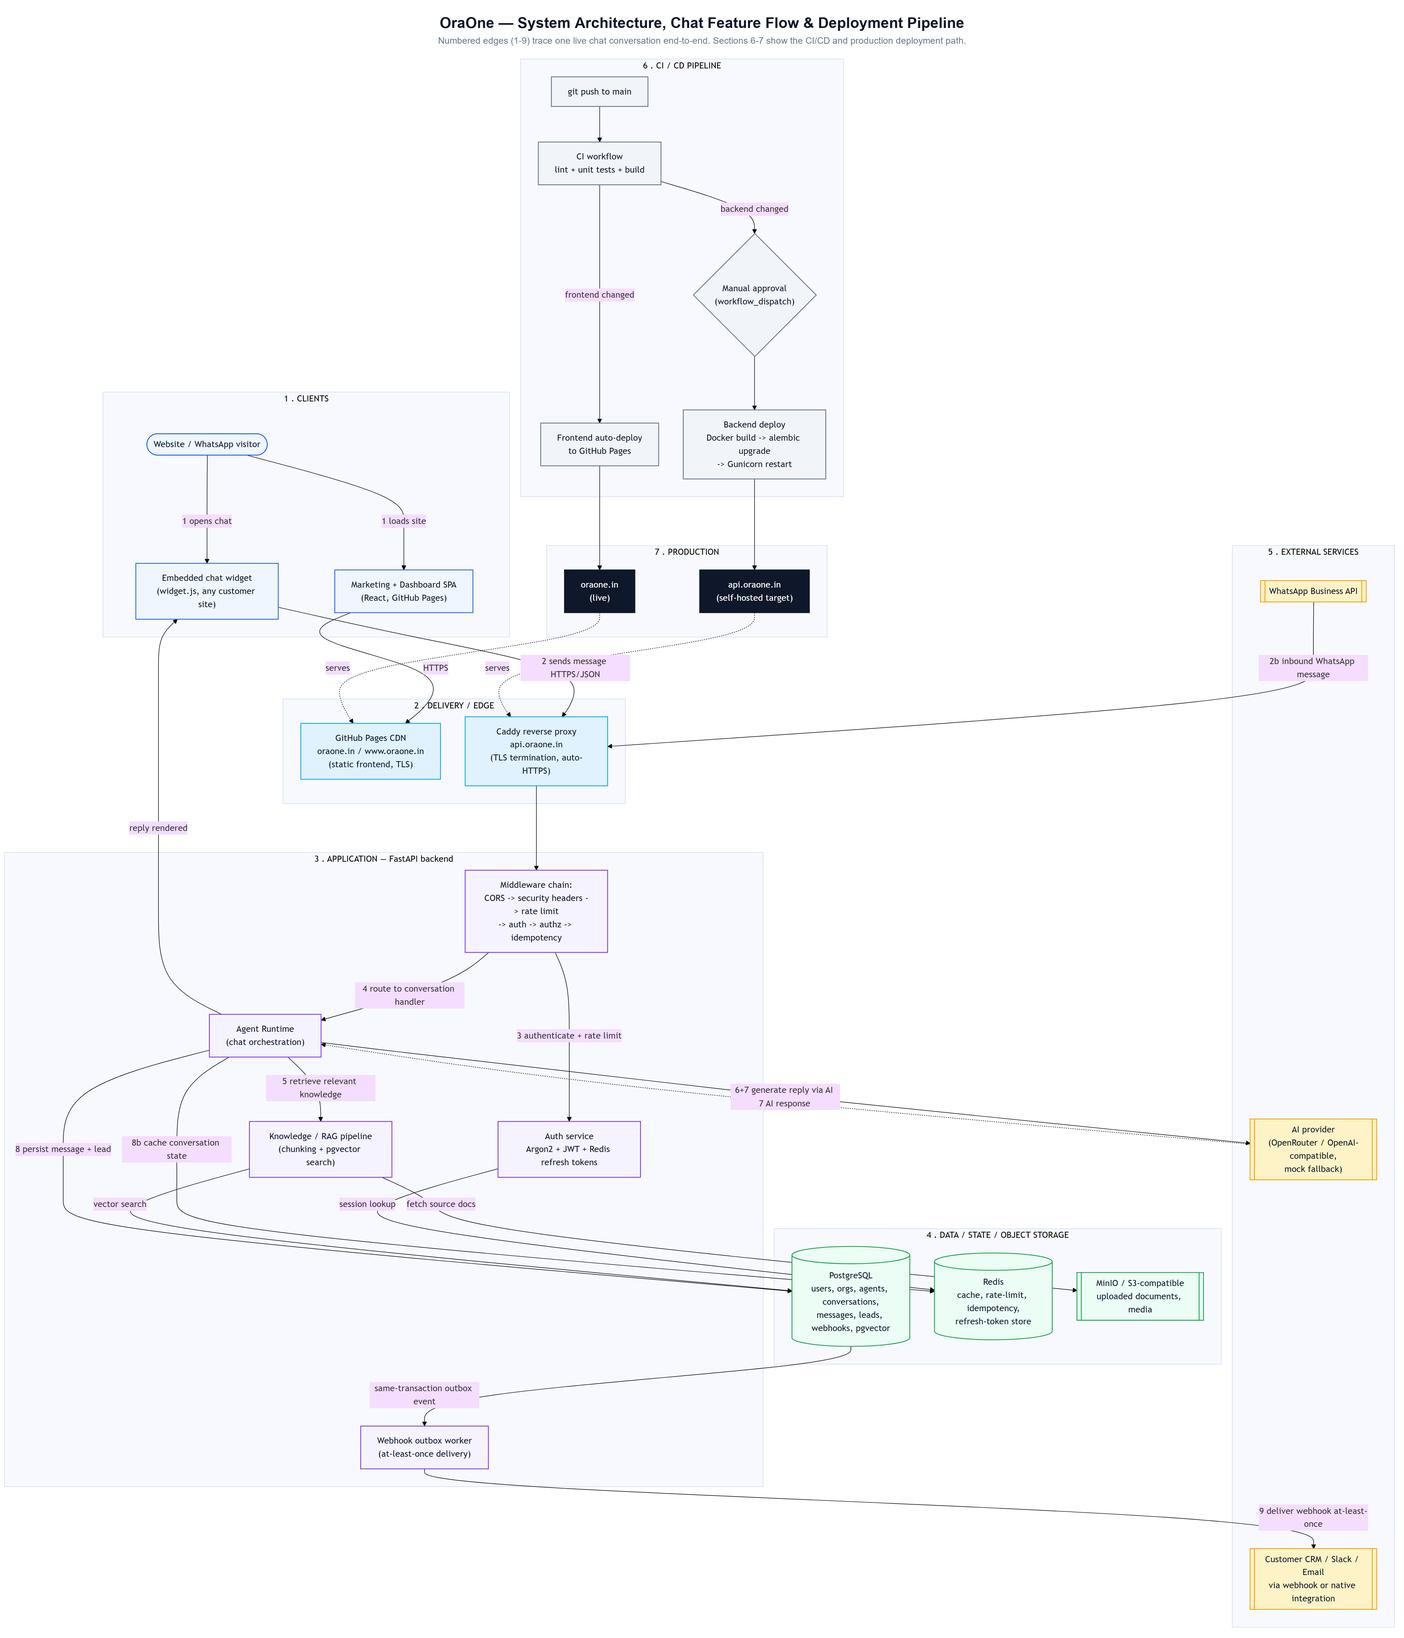
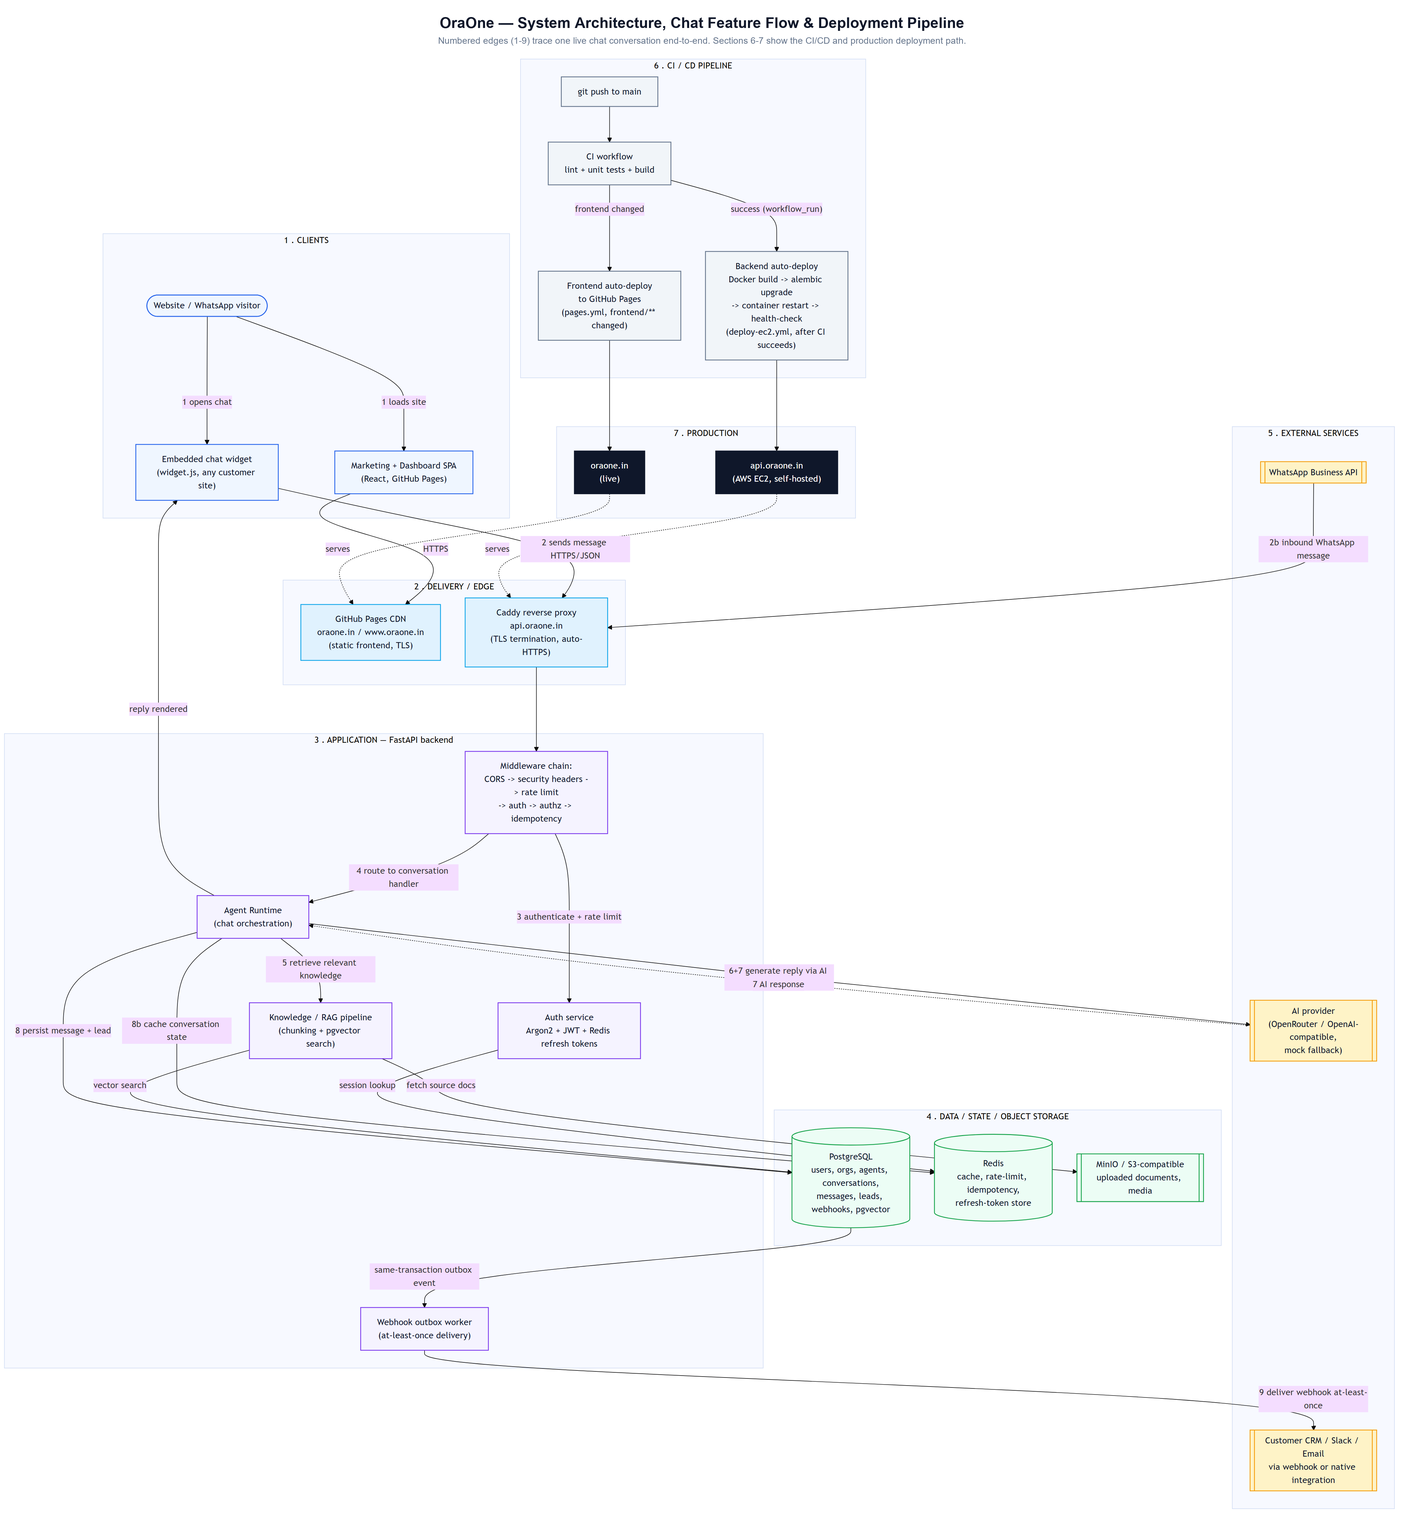
chore: durable infra + docs sync (Elastic IP, SES-ready CFN, widget API base, CI/CD docs)
Infrastructure durability:
- Allocated + associated an AWS Elastic IP for oraone-prod so the public
  IP survives a stop/start (previously a plain auto-assigned address that
  would silently break DNS/SSH/the deploy pipeline on any stop/start).
  Updated the api.oraone.in DNS record and the EC2_HOST deploy secret.
- CloudFormation template (oraone-ec2-stack.yaml): added an EmailFromAddress
  parameter, an EC2 instance role/profile scoped to ses:SendEmail/
  ses:SendRawEmail, and WIDGET_API_BASE/EMAIL_FROM/SES_REGION in the
  generated backend/.env, so future deployments via this template get
  working transactional email and a correct widget embed snippet without
  the manual dance this session needed. Re-validated with cfn-lint (clean).
- Set WIDGET_API_BASE on the live server — this is the actual root-cause
  fix for the widget-embed-404 bug (the client-side widget.js fallback
  added earlier remains as a defensive fallback, but the server already
  had a documented, unused mechanism for this exact cross-domain case).

Docs (were describing a topology/pipeline that no longer matches reality):
- DEPLOYMENT.md: rewritten to describe the actual live split (GitHub Pages
  frontend + self-hosted EC2 backend, not 'two alternative models'),
  correct the now-inaccurate 'deploy is manual-dispatch only' claim, and
  add concrete SES setup + Elastic IP guidance.
- ARCHITECTURE.md / README.md: removed the 'no AWS dependency at all'
[…]

diff --git a/backend/app/emails/templates/verify_email.html b/backend/app/emails/templates/verify_email.html
@@ -1,12 +1,52 @@
-<h1 style="margin:0 0 16px 0; font-size:24px; line-height:32px; font-weight:800; color:#0F172A;">Verify your email</h1>
-<p style="margin:0 0 24px 0; font-size:15px; line-height:24px; color:#334155;">
-  Thanks for signing up for OraOne. Confirm this is your email address to activate your account.
+<table role="presentation" cellpadding="0" cellspacing="0" style="margin:0 0 20px 0;">
+  <tr>
+    <td style="width:40px; height:40px; border-radius:10px; background-color:#EFF6FF; text-align:center; vertical-align:middle;" width="40" height="40">
+      <span style="font-size:18px; line-height:40px;">&#9993;</span>
+    </td>
+    <td style="padding-left:12px; vertical-align:middle;">
+      <span style="font-size:12px; font-weight:700; letter-spacing:0.08em; text-transform:uppercase; color:#2563EB;">Confirm your email</span>
+    </td>
+  </tr>
+</table>
+
+<h1 style="margin:0 0 12px 0; font-size:24px; line-height:32px; font-weight:800; color:#0F172A;">Verify your email address</h1>
+<p style="margin:0 0 28px 0; font-size:15px; line-height:24px; color:#334155;">
+  Thanks for signing up for OraOne. Confirm this is your email address to activate your account and start building your first AI agent.
 </p>
-<a href="{{ cta_url }}" style="display:inline-block; background:linear-gradient(135deg,#2563EB 0%,#4F46E5 100%); color:#FFFFFF; text-decoration:none; font-weight:600; font-size:15px; padding:12px 28px; border-radius:10px;">Verify email</a>
-<p style="margin:28px 0 8px 0; font-size:14px; line-height:22px; color:#64748B;">
-  Or use this code if prompted:
+
+<table role="presentation" cellpadding="0" cellspacing="0" style="margin:0 0 28px 0;">
+  <tr>
+    <td style="border-radius:10px; background:linear-gradient(135deg,#2563EB 0%,#4F46E5 100%);">
+      <a href="{{ cta_url }}" style="display:inline-block; color:#FFFFFF; text-decoration:none; font-weight:600; font-size:15px; padding:12px 28px;">Verify email address</a>
+    </td>
+  </tr>
+</table>
+
+<p style="margin:0 0 10px 0; font-size:13px; line-height:20px; color:#64748B;">
+  Or, if you were asked for a code instead, enter this:
 </p>
-<p style="margin:0 0 24px 0; font-size:28px; line-height:34px; font-weight:800; letter-spacing:0.2em; color:#2563EB;">{{ code }}</p>
-<p style="margin:0; font-size:13px; line-height:20px; color:#94A3B8;">
-  This link expires in {{ expires_in }}. If you didn't create an OraOne account, you can safely ignore this email.
-</p>
+<table role="presentation" width="100%" cellpadding="0" cellspacing="0" style="margin:0 0 16px 0;">
+  <tr>
+    <td align="center" style="background-color:#F8FAFC; border:1px solid #E2E8F0; border-radius:14px; padding:20px 16px;">
+      <span style="display:inline-block; font-family:'SFMono-Regular',Consolas,'Liberation Mono',Menlo,monospace; font-size:30px; line-height:38px; font-weight:800; letter-spacing:0.3em; color:#0F172A;">{{ code }}</span>
+    </td>
+  </tr>
+</table>
+
+<table role="presentation" cellpadding="0" cellspacing="0" style="margin:0 0 28px 0;">
+  <tr>
+    <td style="background-color:#EFF6FF; border-radius:999px; padding:6px 14px;">
+      <span style="font-size:12px; font-weight:600; color:#2563EB;">&#9201; Expires in {{ expires_in }}</span>
+    </td>
+  </tr>
+</table>
+
+<table role="presentation" width="100%" cellpadding="0" cellspacing="0" style="border-top:1px solid #F1F5F9;">
+  <tr>
+    <td style="padding-top:20px;">
+      <p style="margin:0; font-size:13px; line-height:20px; color:#94A3B8;">
+        <strong style="color:#64748B;">Didn't create this account?</strong> You can safely ignore this email — no account will be activated without confirming this address.
+      </p>
+    </td>
+  </tr>
+</table>

diff --git a/backend/app/emails/templates/login_otp.html b/backend/app/emails/templates/login_otp.html
@@ -1,8 +1,41 @@
-<h1 style="margin:0 0 16px 0; font-size:24px; line-height:32px; font-weight:800; color:#0F172A;">Your sign-in code</h1>
-<p style="margin:0 0 24px 0; font-size:15px; line-height:24px; color:#334155;">
-  Enter this code to finish signing in to OraOne.
+<table role="presentation" cellpadding="0" cellspacing="0" style="margin:0 0 20px 0;">
+  <tr>
+    <td style="width:40px; height:40px; border-radius:10px; background-color:#EFF6FF; text-align:center; vertical-align:middle;" width="40" height="40">
+      <span style="font-size:18px; line-height:40px;">&#128274;</span>
+    </td>
+    <td style="padding-left:12px; vertical-align:middle;">
+      <span style="font-size:12px; font-weight:700; letter-spacing:0.08em; text-transform:uppercase; color:#2563EB;">Sign-in verification</span>
+    </td>
+  </tr>
+</table>
+
+<h1 style="margin:0 0 12px 0; font-size:24px; line-height:32px; font-weight:800; color:#0F172A;">Enter this code to sign in</h1>
+<p style="margin:0 0 28px 0; font-size:15px; line-height:24px; color:#334155;">
+  We received a sign-in request for your OraOne account. Use the verification code below to finish signing in — don't share it with anyone.
 </p>
-<p style="margin:0 0 24px 0; font-size:32px; line-height:38px; font-weight:800; letter-spacing:0.25em; color:#2563EB;">{{ code }}</p>
-<p style="margin:0; font-size:13px; line-height:20px; color:#94A3B8;">
-  This code expires in {{ expires_in }}. If you didn't try to sign in, you can safely ignore this email — your password has not been compromised.
-</p>
+
+<table role="presentation" width="100%" cellpadding="0" cellspacing="0" style="margin:0 0 16px 0;">
+  <tr>
+    <td align="center" style="background-color:#F8FAFC; border:1px solid #E2E8F0; border-radius:14px; padding:24px 16px;">
+      <span style="display:inline-block; font-family:'SFMono-Regular',Consolas,'Liberation Mono',Menlo,monospace; font-size:36px; line-height:44px; font-weight:800; letter-spacing:0.35em; color:#0F172A;">{{ code }}</span>
+    </td>
+  </tr>
+</table>
+
+<table role="presentation" cellpadding="0" cellspacing="0" style="margin:0 0 28px 0;">
+  <tr>
+    <td style="background-color:#EFF6FF; border-radius:999px; padding:6px 14px;">
+      <span style="font-size:12px; font-weight:600; color:#2563EB;">&#9201; Expires in {{ expires_in }}</span>
+    </td>
+  </tr>
+</table>
+
+<table role="presentation" width="100%" cellpadding="0" cellspacing="0" style="border-top:1px solid #F1F5F9;">
+  <tr>
+    <td style="padding-top:20px;">
+      <p style="margin:0; font-size:13px; line-height:20px; color:#94A3B8;">
+        <strong style="color:#64748B;">Didn't try to sign in?</strong> Someone may have entered your email by mistake, or tried to access your account. Your account is still safe — no one can sign in without this code, and it expires automatically. If this keeps happening, reply to this email and we'll help you secure your account.
+      </p>
+    </td>
+  </tr>
+</table>

diff --git a/docs/DEPLOYMENT.md b/docs/DEPLOYMENT.md
@@ -1,51 +1,111 @@
 # OraOne — Deployment & Operations
 
-Two distinct topologies exist. A reader must be able to tell at a glance
-which one is actually serving production traffic today.
+Production today runs BOTH topologies at once, split by concern: the
+marketing/app frontend is a static bundle on GitHub Pages, while the API
+is the full `docker-compose.prod.yml` stack (Postgres/Redis/MinIO/backend/
+Caddy) self-hosted on a single AWS EC2 instance. This isn't "pick one" —
+it's the actual live split, and a reader must be able to tell at a glance
+what's serving what.
 
-## Current hosted model (production today)
+## Frontend — GitHub Pages
 
 ![Current hosted model — GitHub Pages for the frontend, Caddy + FastAPI for the API domain](assets/diagrams/deployment-hosted-model.png)
 
-- **Frontend**: `.github/workflows/pages.yml` builds the CRA app and
-  deploys to GitHub Pages on every push to `main` that touches
-  `frontend/**`.
-- **Backend**: `backend/Dockerfile` (multi-stage, non-root user) runs
-  `alembic upgrade head` then Gunicorn (`gunicorn.conf.py` — `2*cpu+1`
-  Uvicorn workers, capped at 8, periodic worker recycling).
+- `.github/workflows/pages.yml` builds the CRA app and deploys to GitHub
+  Pages on every push to `main` that touches `frontend/**`. Serves
+  `oraone.in`.
 
-## Self-hosted model (`docker-compose.prod.yml`, alternative)
+## Backend — self-hosted on AWS EC2 (`docker-compose.prod.yml`)
 
 ![Self-hosted model — Caddy routing to frontend and backend containers, backed by postgres, redis, and minio](assets/diagrams/deployment-self-hosted-model.png)
 
-Any container platform (Fly.io, Render, Railway, ECS/Cloud Run, a K8s
-cluster) or a single VPS/dedicated server with Docker works — push the
-images to a registry (or `docker compose -f docker-compose.prod.yml up -d
---build` directly on a VPS) with the env vars from
-`backend/.env.example` / `frontend/.env.example`. The backend needs a
-reachable Postgres (with `pgvector`) and, optionally, Redis; the frontend
-only needs `REACT_APP_API_URL` set at **build** time (static bundle, baked
-in, not read at runtime). Put nginx/Caddy/Traefik in front for TLS. See
-[Local Setup](../LOCAL_SETUP.md) for the bare-metal-without-Docker path.
+Serves `api.oraone.in`. `backend/Dockerfile` (multi-stage, non-root user)
+runs `alembic upgrade head` then Gunicorn (`gunicorn.conf.py` — `2*cpu+1`
+Uvicorn workers, capped at 8, periodic worker recycling). Caddy in front
+handles TLS (auto Let's Encrypt) and reverse-proxies `/api/*` to the
+backend container.
+
+**Portable to any AWS account/region**: [`scripts/aws/oraone-ec2-stack.yaml`](../scripts/aws/oraone-ec2-stack.yaml)
+is a self-contained CloudFormation template that recreates this exact
+stack (instance, security group, Elastic IP, SES IAM role, billing budget
+alert) from scratch — see its header comment for the `aws cloudformation
+create-stack` invocation and required manual follow-up (DNS, SES domain
+verification).
+
+**Elastic IP, not the ephemeral auto-assigned address**: the instance's
+public IP is an AWS Elastic IP (allocated once, associated to the
+instance) specifically so it survives a stop/start without breaking DNS,
+SSH muscle-memory, or the `EC2_HOST` deploy secret. A plain auto-assigned
+public IP is reassigned on every stop/start — never rely on one for
+anything DNS points at.
+
+This topology also works on any container platform (Fly.io, Render,
+Railway, ECS/Cloud Run, a K8s cluster) or a plain VPS with Docker — push
+the images to a registry (or `docker compose -f docker-compose.prod.yml up
+-d --build` directly) with the env vars from `backend/.env.example` /
+`frontend/.env.example`. The backend needs a reachable Postgres (with
+`pgvector`) and, optionally, Redis; the frontend only needs
+`REACT_APP_API_URL` set at **build** time (static bundle, baked in, not
+read at runtime). See [Local Setup](../LOCAL_SETUP.md) for the
+bare-metal-without-Docker path.
+
+Whenever the frontend and backend are on **different domains** (as in
+production — GitHub Pages vs. `api.oraone.in`), also set `WIDGET_API_BASE`
+(see [Environment](ENVIRONMENT.md#widget--public-urls)) so the embedded
+widget's generated `<script>` snippet points at the right API origin —
+otherwise it defaults to `FRONTEND_URL` and the widget silently 404s on
+its own config.
 
 In every case: set `ENVIRONMENT=production`, a real `CORS_ORIGINS` (never
 `*`), and a real `JWT_SECRET_KEY` (self-hosted auth is always active — no
 external identity provider to configure).
 
+## Transactional email (SES)
+
+OTP/verification/reset emails are **log-only** (never actually sent) until
+`EMAIL_FROM` is set to a verified SES sender — see
+[Environment → Transactional email](ENVIRONMENT.md). Setup is inherently
+semi-manual (AWS can't verify domain ownership without your DNS provider):
+
+1. **Verify the sending domain in SES** — Console > SES > Verified
+   identities > Create identity > Domain, then add the DKIM CNAME records
+   it gives you at your DNS provider. Verification typically completes in
+   minutes.
+2. **Grant the backend `ses:SendEmail`/`ses:SendRawEmail`** — an EC2
+   instance profile is the durable way to do this (no long-lived keys to
+   rotate); the CloudFormation template creates one automatically. For a
+   manually-launched instance: IAM > Roles > Create role (EC2 trust) with
+   an inline `ses:SendEmail`/`ses:SendRawEmail` policy, then EC2 > that
+   instance > Actions > Security > Modify IAM role — no reboot required.
+3. **Set `EMAIL_FROM=noreply@yourdomain`** (+ `SES_REGION` if it differs
+   from `AWS_REGION`) in `backend/.env` and restart the backend container.
+4. **Request SES production access** — new SES accounts start in the
+   sandbox (200 emails/day, delivers only to individually-verified
+   recipient addresses). Get set up > Request production access; AWS
+   support typically responds within 24h, sometimes asking for sending-volume
+   / bounce-handling details first.
+
 ## DNS / TLS chain
 
 ![DNS and TLS chain — apex and www records, GitHub-managed Let's Encrypt cert, enforced HTTPS redirect](assets/diagrams/deployment-dns-tls.png)
 
-## CI vs deploy — deliberately separate pipelines
+## CI vs deploy — decoupled, gated pipelines
 
-![CI and deploy are separate pipelines — CI runs lint/test/build with no deploy trigger; deploy only runs on manual dispatch by an authorized operator](assets/diagrams/deployment-ci-vs-deploy.png)
+![CI and deploy are separate pipelines — CI runs lint/test/build; on success it triggers the backend deploy workflow via workflow_run, with workflow_dispatch also available for an on-demand manual run](assets/diagrams/deployment-ci-vs-deploy.png)
 
-A compromised or malicious PR cannot automatically deploy to production —
-`.github/workflows/ci.yml` (lint/build/test) and the deploy workflow are
-fully decoupled; deploy only runs on manual dispatch by an authorized
-operator. Frontend only ever sees `REACT_APP_*` (public) variables; all
-secrets stay server-side in `backend/.env`, never bundled into the static
+`.github/workflows/ci.yml` (lint/build/test) and
+`.github/workflows/deploy-ec2.yml` (build images, roll out to the EC2
+instance over SSH, health-check) are separate workflow files, but they are
+chained, not disconnected: deploy only fires via `workflow_run` **after**
+CI reports `success` on `main` (a failed/cancelled CI run never triggers a
+deploy), plus `workflow_dispatch` for an on-demand manual run. A compromised
+or malicious PR still can't deploy anything — deploy only ever triggers
+from `main`, and only after CI has actually passed against that exact
+commit. Frontend only ever sees `REACT_APP_*` (public) variables; all
+secrets stay server-side in `backend/.env` / GitHub Actions secrets
+(`EC2_HOST`, `EC2_USER`, `EC2_SSH_KEY`), never bundled into the static
 frontend build or the backend image.
+
 
 ## Health checks & status
 
@@ -139,4 +199,12 @@ require `cd backend && python -m alembic upgrade head`. Bump
 - [ ] Terminate TLS at the proxy (Caddy does this automatically) and
       confirm `Strict-Transport-Security` is present on responses.
 - [ ] Configure `EMAIL_FROM` + a verified sender to enable transactional
-      email (OTP codes, verification, password reset).
+      email (OTP codes, verification, password reset) — see
+      [Transactional email (SES)](#transactional-email-ses) above.
+- [ ] Set `WIDGET_API_BASE` if the frontend and backend are on different
+      domains (see [Environment](ENVIRONMENT.md#widget--public-urls)).
+- [ ] If self-hosting on a single VM/instance, associate a static/reserved
+      IP (an AWS Elastic IP, or equivalent) rather than relying on the
+      platform's auto-assigned address — otherwise a stop/start silently
+      breaks DNS, SSH access, and any deploy pipeline pointed at the old IP.
+

diff --git a/README.md b/README.md
@@ -10,6 +10,7 @@ AI Chat & WhatsApp agents that answer, qualify, and convert customers 24/7 — e
 
 [![CI](https://github.com/OraOneHQ/oraone-web/actions/workflows/ci.yml/badge.svg?branch=main)](https://github.com/OraOneHQ/oraone-web/actions/workflows/ci.yml)
 [![Deploy Frontend](https://github.com/OraOneHQ/oraone-web/actions/workflows/pages.yml/badge.svg?branch=main)](https://github.com/OraOneHQ/oraone-web/actions/workflows/pages.yml)
+[![Deploy Backend](https://github.com/OraOneHQ/oraone-web/actions/workflows/deploy-ec2.yml/badge.svg?branch=main)](https://github.com/OraOneHQ/oraone-web/actions/workflows/deploy-ec2.yml)
 [![Live Site](https://img.shields.io/badge/live-oraone.in-2563EB)](https://oraone.in)
 [![License: Proprietary](https://img.shields.io/badge/license-proprietary-64748B)](#license)
 
@@ -72,8 +73,8 @@ deployment topologies, and more).
 | Object storage | S3-compatible (MinIO locally, AWS S3 or any S3-compatible provider in production) |
 | AI | Pluggable provider (OpenRouter / OpenAI-compatible), graceful mock fallback |
 | Auth | Argon2 + JWT + Redis-backed refresh-token rotation, email OTP 2FA |
-| Deployment | GitHub Pages (frontend, HTTPS enforced), Docker Compose + Caddy (backend, auto-HTTPS) |
-| CI/CD | GitHub Actions — lint/test/build gate, decoupled from manual-dispatch deploys |
+| Deployment | GitHub Pages (frontend, HTTPS enforced), self-hosted Docker Compose + Caddy on a single VM (backend, auto-HTTPS) |
+| CI/CD | GitHub Actions — `ci.yml` (lint/test/build) gates `pages.yml` (frontend → GitHub Pages) and `deploy-ec2.yml` (backend+frontend containers → the backend VM), both of which auto-run only after CI succeeds on `main` |
 
 ## Project structure
 
@@ -120,7 +121,11 @@ yarn start
 ```
 
 Open http://localhost:3000 and sign in with the seeded local admin account.
-No AWS account, Cognito, or MongoDB required — the whole stack is self-hosted.
+No Cognito or MongoDB required — auth is self-hosted (Argon2 + JWT against
+Postgres) and works on any host. The live deployment happens to run its
+backend on a single AWS EC2 instance (see [Deployment](docs/DEPLOYMENT.md)),
+but that's a hosting choice, not a requirement — any VPS/container platform
+with Docker works identically.
 
 **Full walkthrough (env vars, troubleshooting, production Docker images):**
 see [LOCAL_SETUP.md](LOCAL_SETUP.md).

diff --git a/docs/ARCHITECTURE.md b/docs/ARCHITECTURE.md
@@ -5,10 +5,14 @@ focused docs it links out to: [Features](FEATURES.md), [Frontend](FRONTEND.md),
 [Backend](BACKEND.md), [Database](DATABASE.md), [Deployment](DEPLOYMENT.md),
 [Routes](ROUTES.md), [Environment](ENVIRONMENT.md).
 
-OraOne is a fully self-hosted stack (no AWS dependency of any kind) with
-self-hosted authentication, a Postgres system of record, Redis-backed
-reliability primitives, and a static frontend on GitHub Pages fronted by a
-custom domain with a real TLS certificate.
+OraOne's application layer has no hard AWS dependency — self-hosted
+authentication (Argon2 + JWT), a Postgres system of record, and
+Redis-backed reliability primitives all run on any host. The current
+production deployment happens to use AWS for hosting (EC2 for the backend,
+SES for transactional email) and a static frontend on GitHub Pages fronted
+by a custom domain with a real TLS certificate — see
+[Deployment](DEPLOYMENT.md) for the actual live topology and what would
+change (nothing in the app code) to self-host elsewhere.
 
 ## Complete system overview (one diagram)
 
